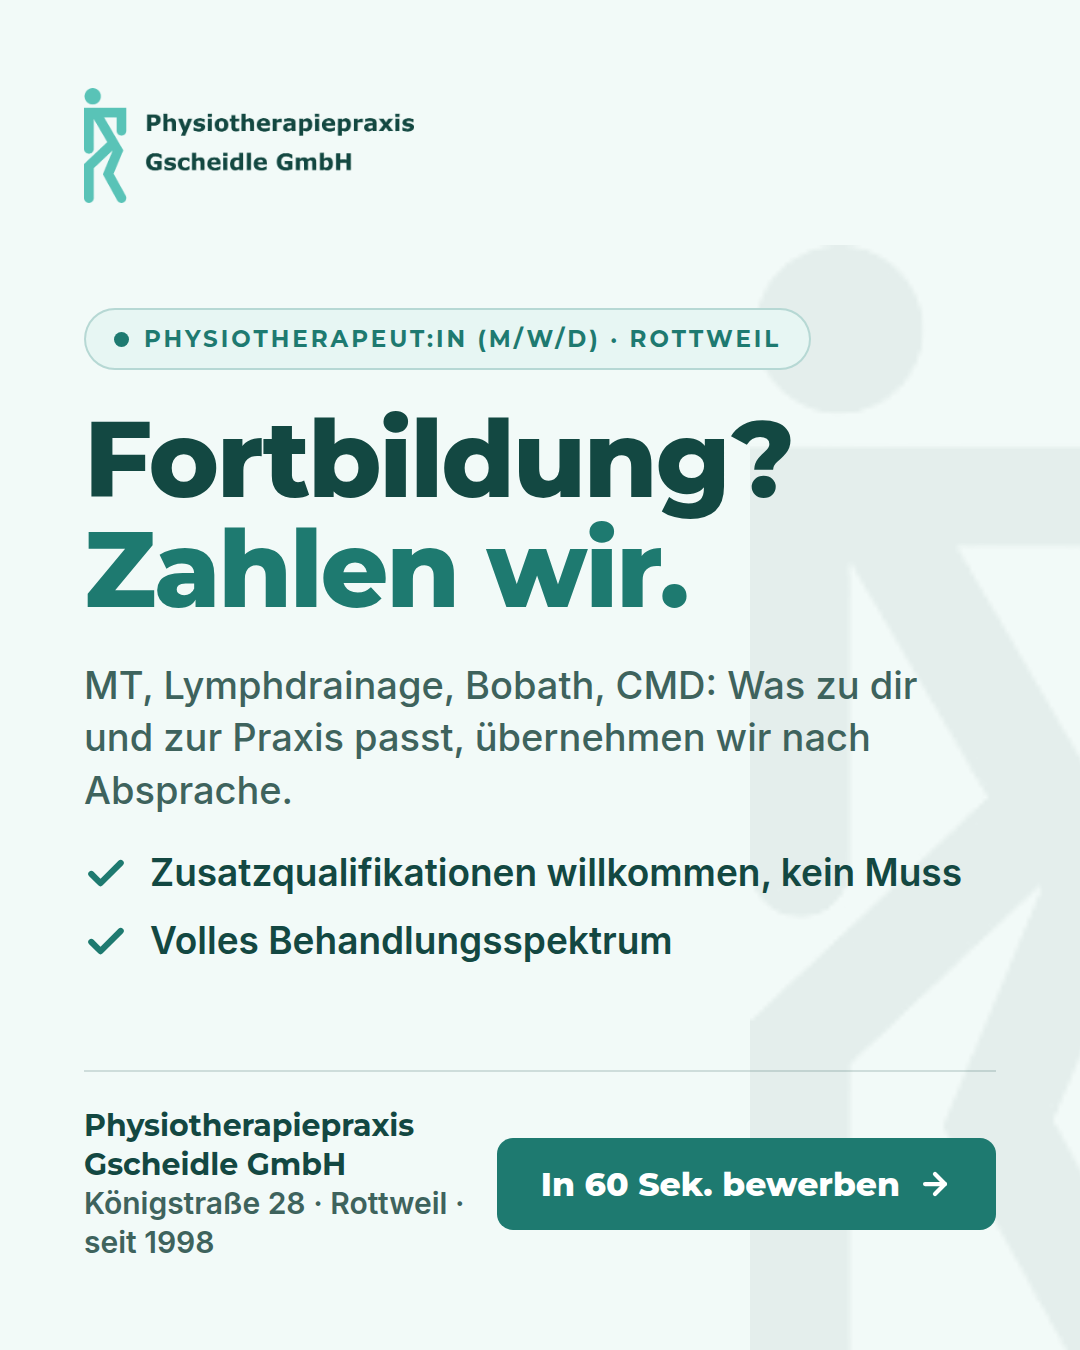
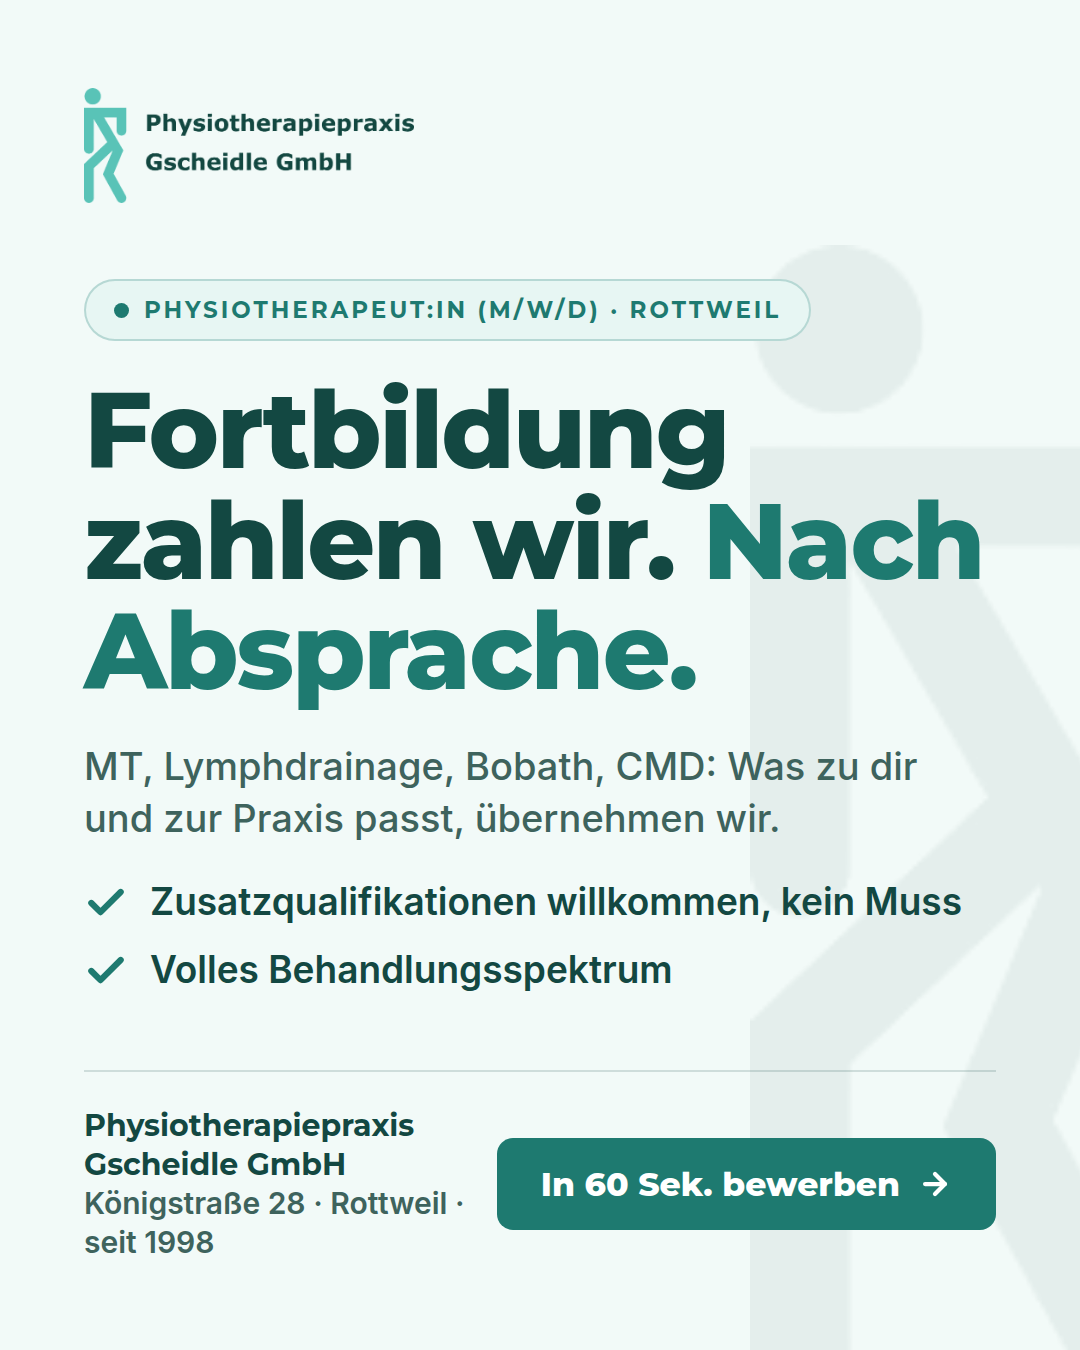
Fortbildungs-Vorbehalt in die Ueberschrift des Anzeigenmotivs
Das Motiv fortbildung versprach gross "Fortbildung? Zahlen wir." und
nannte "nach Absprache" nur klein darunter. Wer nur die Ueberschrift
liest - und im Feed liest man meist nur die -, nahm eine unbedingte
Zusage mit. Jetzt steht beides in derselben Groesse: "Fortbildung zahlen
wir. Nach Absprache."

Das Badge zog bisher immer das Auto-Symbol mit, auch wenn es inhaltlich
nicht passt. Mit badgeIcon:false laesst es sich jetzt abschalten.

Claude-Session: https://claude.ai/code/session_01LtBBjQMCSQX7tc7qtC8CYr

Changed region(s): [[0.0611, 0.2178, 0.9167, 0.7467]]

diff --git a/creatives/index.html b/creatives/index.html
@@ -237,8 +237,8 @@ const MOTIVE = [
   {
     name:'fortbildung', theme:'t-light',
     eyebrow:'Physiotherapeut:in (m/w/d) · Rottweil',
-    h1:'Fortbildung? <em>Zahlen wir.</em>',
-    sub:'MT, Lymphdrainage, Bobath, CMD: Was zu dir und zur Praxis passt, übernehmen wir nach Absprache.',
+    h1:'Fortbildung zahlen wir. <em>Nach Absprache.</em>',
+    sub:'MT, Lymphdrainage, Bobath, CMD: Was zu dir und zur Praxis passt, übernehmen wir.',
     ticks:['Zusatzqualifikationen willkommen, kein Muss','Volles Behandlungsspektrum']
   },
   {
@@ -297,7 +297,7 @@ function build(m, fmt){
   middle.push(`<h1>${m.h1}</h1>`);
   if (m.terms) middle.push(`<div class="terms">${m.terms.map((t,i) =>
       `<span class="term${i % 3 === 0 ? ' is-hot' : ''}">${t}</span>`).join('')}</div>`);
-  if (m.badge) middle.push(`<span class="badge">${CAR}${m.badge}</span>`);
+  if (m.badge) middle.push(`<span class="badge">${m.badgeIcon === false ? '' : CAR}${m.badge}</span>`);
   if (m.sub)   middle.push(`<p class="sub">${m.sub}</p>`);
   if (m.ticks) middle.push(`<div class="ticks">${m.ticks.map(t =>
       `<div>${TICK}<span>${t}</span></div>`).join('')}</div>`);

diff --git a/creatives/README.md b/creatives/README.md
@@ -27,7 +27,7 @@ Typografie, CI-Farben und Logo. Alle sind sofort schaltbar.
 | `zeit-pro-patient` | „Wie viel Zeit bleibt dir pro Patient?" | helle Fläche |
 | `sieben` | „7 Kolleg:innen. Eine:r fehlt noch." | Türkis |
 | `ohne-lebenslauf` | „Vier Fragen. Kein Lebenslauf." – gut fürs Retargeting | **Praxisfoto** |
-| `fortbildung` | „Fortbildung? Zahlen wir." | helle Fläche |
+| `fortbildung` | „Fortbildung zahlen wir. Nach Absprache." | helle Fläche |
 | `spektrum` | „Kein Tag wie der davor." – Behandlungsspektrum als Wortfeld | dunkelgrüner Verlauf |
 | `rezeption` | „Termine macht die Rezeption. Du machst Therapie." | Türkis |
 | `seit-1998` | „1998 gegründet. Nie ein Fließband." | dunkelgrüner Verlauf |
@@ -89,6 +89,7 @@ Alles steckt im `MOTIVE`-Array unten in [`index.html`](index.html):
   ticks:['…','…'],                // optionale Hakenliste
   bignum:'7',                     // optionale grosse Zahl über der Headline
   badge:'Dienstwagen · auch privat', // optionales Badge unter der Headline
+  badgeIcon:false,                // Badge ohne das Auto-Symbol
   photo:'behandlungsraum.jpg',    // optionales Foto, nur mit theme t-dark
   brand:true                      // Beitrag statt Anzeige: ohne Bewerben-Knopf
 }
